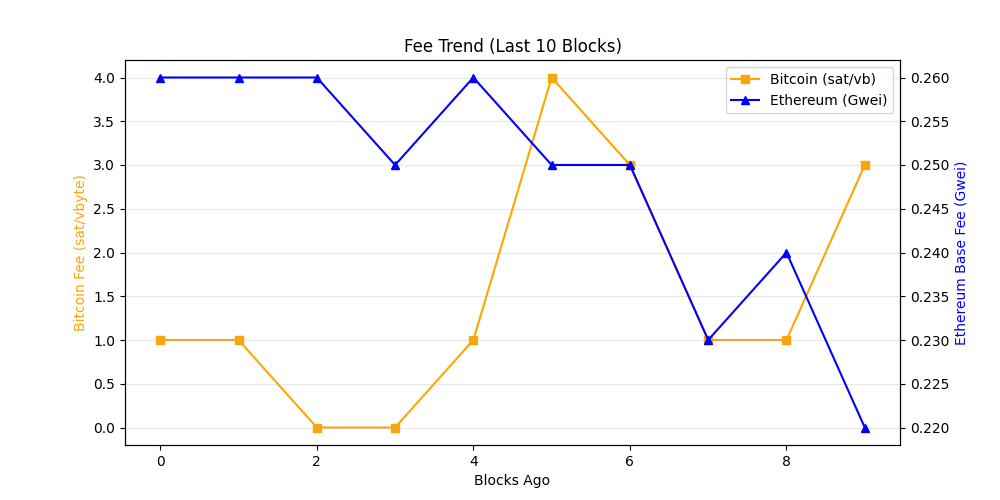
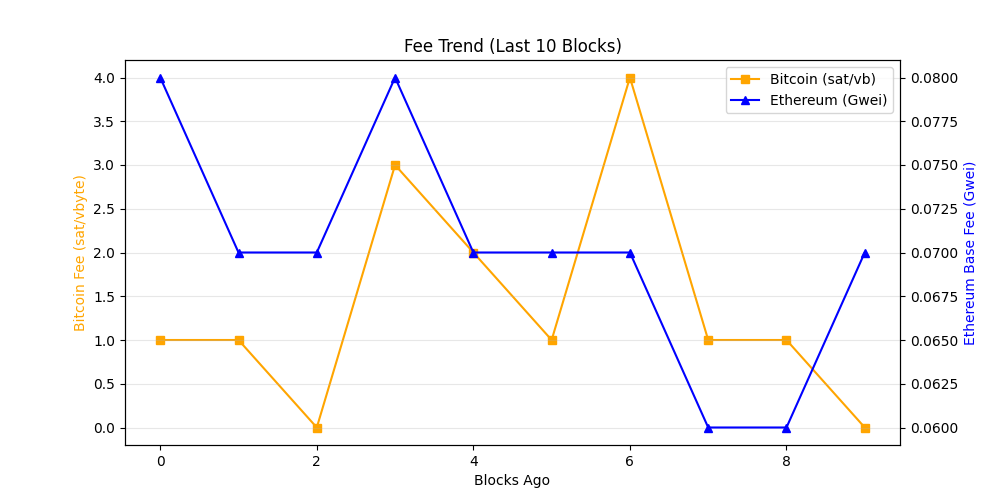
chore: update on-chain dashboard

diff --git a/README.md b/README.md
@@ -19,7 +19,7 @@ The README itself acts as the dashboard and is regenerated automatically on a 6 
 demonstrating a production-style, infrastructure-focused observability workflow rather
 than a traditional UI-driven approach.
 
-_Last updated: 2026-07-10 14:50 UTC_
+_Last updated: 2026-07-10 19:50 UTC_
 
 ## API Usage (GetBlock.io)
 - Calls used: **24**
@@ -27,8 +27,8 @@ _Last updated: 2026-07-10 14:50 UTC_
 ## Network Metrics
 | Chain | Block Height | TX Count | TPS (10 blk avg) | Block Util | Avg Fee |
 |------|-------------|----------|------------------|------------|---------|
-| Ethereum | 25502894 | 385 | 32.08 | 59.41% | 0.2 Gwei |
-| Bitcoin | 957437 | 4080 | 8.7 | 99.8% | N/A |
+| Ethereum | 25504392 | 374 | 31.17 | 51.86% | 0.1 Gwei |
+| Bitcoin | 957472 | 6551 | 74.44 | 99.8% | N/A |
 
 ## Visuals
 ### Transactions Trend
@@ -43,11 +43,8 @@ _Last updated: 2026-07-10 14:50 UTC_
 ## Whale Alerts (latest block)
 - Transaction hashes are truncated for readability.
 - Full hashes are available in `dashboards/metrics.json`
-- Bitcoin | 1569.01 BTC | `f4e934946b69…`
-- Bitcoin | 497.48 BTC | `119e466ab641…`
-- Bitcoin | 137.0 BTC | `014a5387add0…`
-- Bitcoin | 193.0 BTC | `70a38165c9ec…`
-- Bitcoin | 120.9 BTC | `0855c6904854…`
+- Bitcoin | 214.94 BTC | `da37f816abe5…`
+- Bitcoin | 238.62 BTC | `905ebfc2dee4…`
 
 ## Run locally
 
